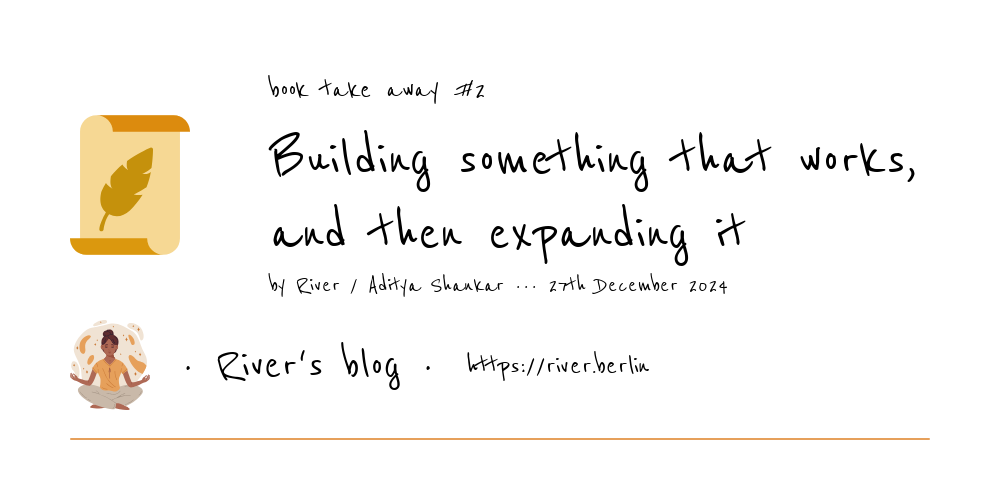
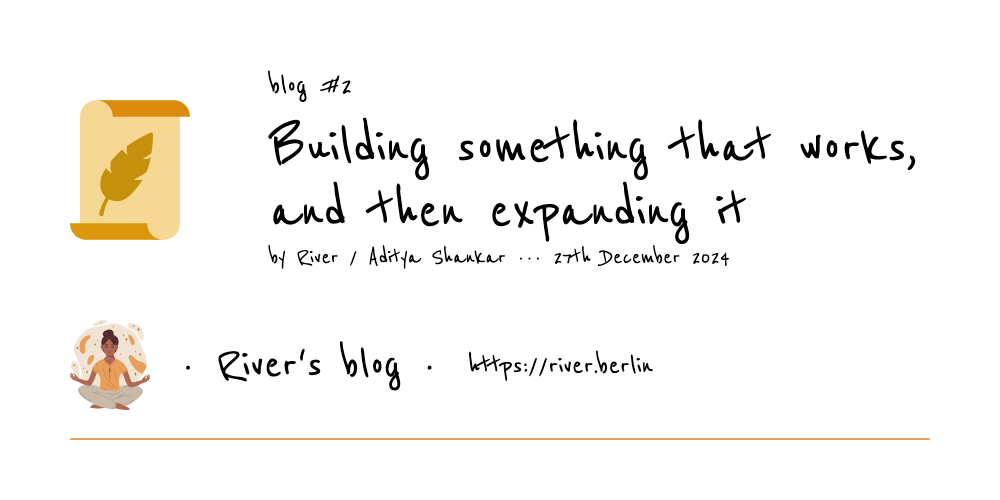
* fixed opengraph Added another blog article

diff --git a/app/generate-opengraph.js b/app/generate-opengraph.js
@@ -172,7 +172,7 @@ for(let bookTakeaway of bookTakeaways){
 for(let blog of blogs){
   nodeHtmlToImage({
     output : path.join(currentDir, `/static/opengraph/blog/${blog.num}.png`),
-    html : generateHTML("https://river.berlin/scroll.svg", `book take away #${blog.num}`, blog.metadata.title, `by ${blog.metadata.author} ··· ${formatDate(blog.metadata.dated)}`)
+    html : generateHTML("https://river.berlin/scroll.svg", `blog #${blog.num}`, blog.metadata.title, `by ${blog.metadata.author} ··· ${formatDate(blog.metadata.dated)}`)
   })
 }
 

diff --git a/blog/blog-5/content.md b/blog/blog-5/content.md
@@ -1,0 +1,149 @@
+---
+shortSummary: Why I feel Svelte is better than React (it's state management)
+author: River / Aditya Shankar
+dated: 2025-05-24
+title: Why I feel Svelte is better than React (it's state management)
+icon: icon.jpg
+---
+
+## Why I feel Svelte is better than React (it's state management)
+
+The developer experience of svelte is miles better than react, apart from pre-planned request layout structures and less cognitive work on that area
+
+And that's it, React projects get into state-hell very easily, and then users are forced to use alternative options such as https://github.com/pmndrs/zustand or https://jotai.org/
+
+This is due to the fact that react by default does not have any "Global state storage" by default, so unless you are relying on the above mentioned libary – you likely will have to create a huge amount of inheritance and prop-drilling - which quickly gets messy and becomes a maintenance nightmare
+
+for example, lets say you have a simple react function with children
+
+```tsx
+function App() {
+    return (
+        <div>
+            <h1>App</h1>
+            <Child />
+        </div>
+    )
+}
+
+function Child() {
+    return (
+        <div>
+            <h2>Child</h2>
+        </div>
+    )
+}
+```
+
+and the way you use it is
+
+```tsx
+function App() {
+    const [count, setCount] = useState(0)
+    return (
+        <div>
+            <h1>App</h1>
+            <Child count={count} setCount={setCount} />
+        </div>
+    )
+}
+```
+
+
+now imagine doing this for a complex state driven project, it clearly doesn't work
+
+```tsx
+function App() {
+    const [count, setCount] = useState(0)
+    const [place, setPlace] = useState("alaska")
+    const [name, setName] = useState("river")
+    // 30 different states to load from
+    
+    // 30 different props to pass down
+    <UserRepresentation count={count} setCount={setCount}, place={place} setPlace={setPlace}, name={name} setName={setName} />
+}
+```
+
+This is probably not a "realistic" example, but in a practical sense, it is a nightmare to manage
+
+So people turn to other libraries like zustand
+
+here you use something similar to
+
+
+
+```tsx
+import { create } from 'zustand'
+
+const useBearStore = create((set) => ({
+  bears: 0,
+  increasePopulation: () => set((state) => ({ bears: state.bears + 1 })),
+  removeAllBears: () => set({ bears: 0 }),
+}))
+
+function BearCounter() {
+  const bears = useBearStore((state) => state.bears)
+  return <h1>{bears} around here ...</h1>
+}
+
+function Controls() {
+  const increasePopulation = useBearStore((state) => state.increasePopulation)
+  return <button onClick={increasePopulation}>one up</button>
+}
+``` 
+
+This is indeed better, since it makes the stores "global" instead of something chained down
+
+
+Svelte manages this via svelte stores, which I feel are alot alot more intuitive, and because they come pre-packaged in svelte, it is one less additional library to use
+
+```svelte
+import {writable} from 'svelte/store'
+
+let count = writable(0)
+
+function increment() {
+    count.update((value) => value + 1)
+}
+```
+
+and when using them in html, you can use the $ prefix to access the store
+
+```svelte
+<h1>{$count}</h1>
+<button on:click={increment}>Increment</button>
+```
+
+that's it, ta-da!
+
+To be honest, I do like jot-ai atoms which come close to this, but I didn't enjoy having to learn jot-ai to use it, and I don't enjoy the "useAtom" syntax
+
+Here's an example of jot-ai atoms for completeness's sake
+
+```tsx
+import { atom } from "jotai"
+
+const countAtom = atom(0)
+
+function increment() {
+    countAtom.update((value) => value + 1)
+}
+```
+
+to use this in a react component
+
+```tsx
+import { useAtom } from "jotai"
+
+function App() {
+    const [count, setCount] = useAtom(countAtom)
+    return (
+        <div>
+            <h1>{count}</h1>
+            <button onClick={() => setCount(count + 1)}>Increment</button>
+        </div>
+    )
+}
+````
+
+
